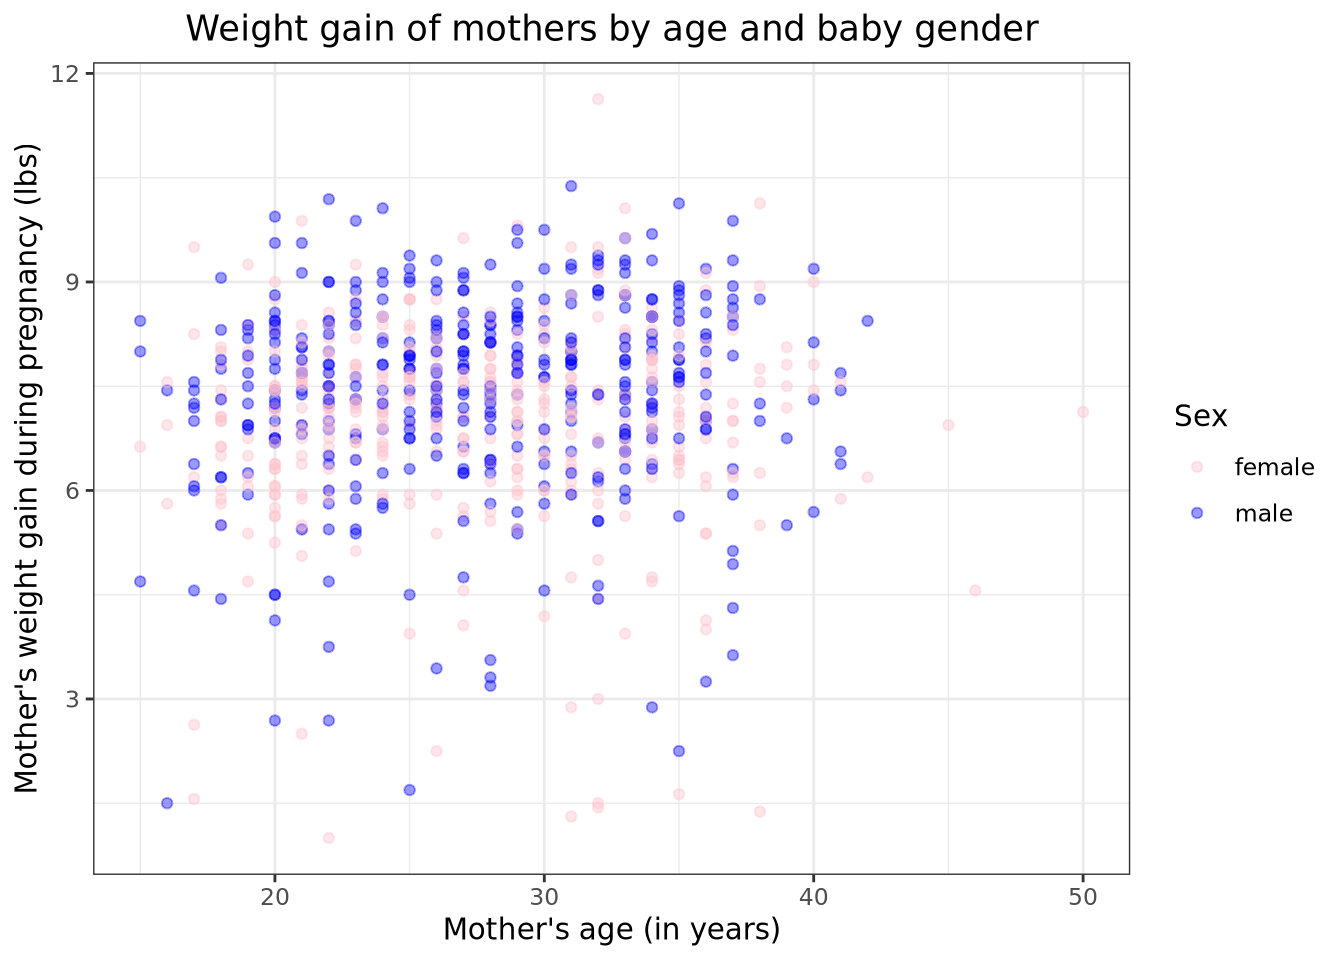
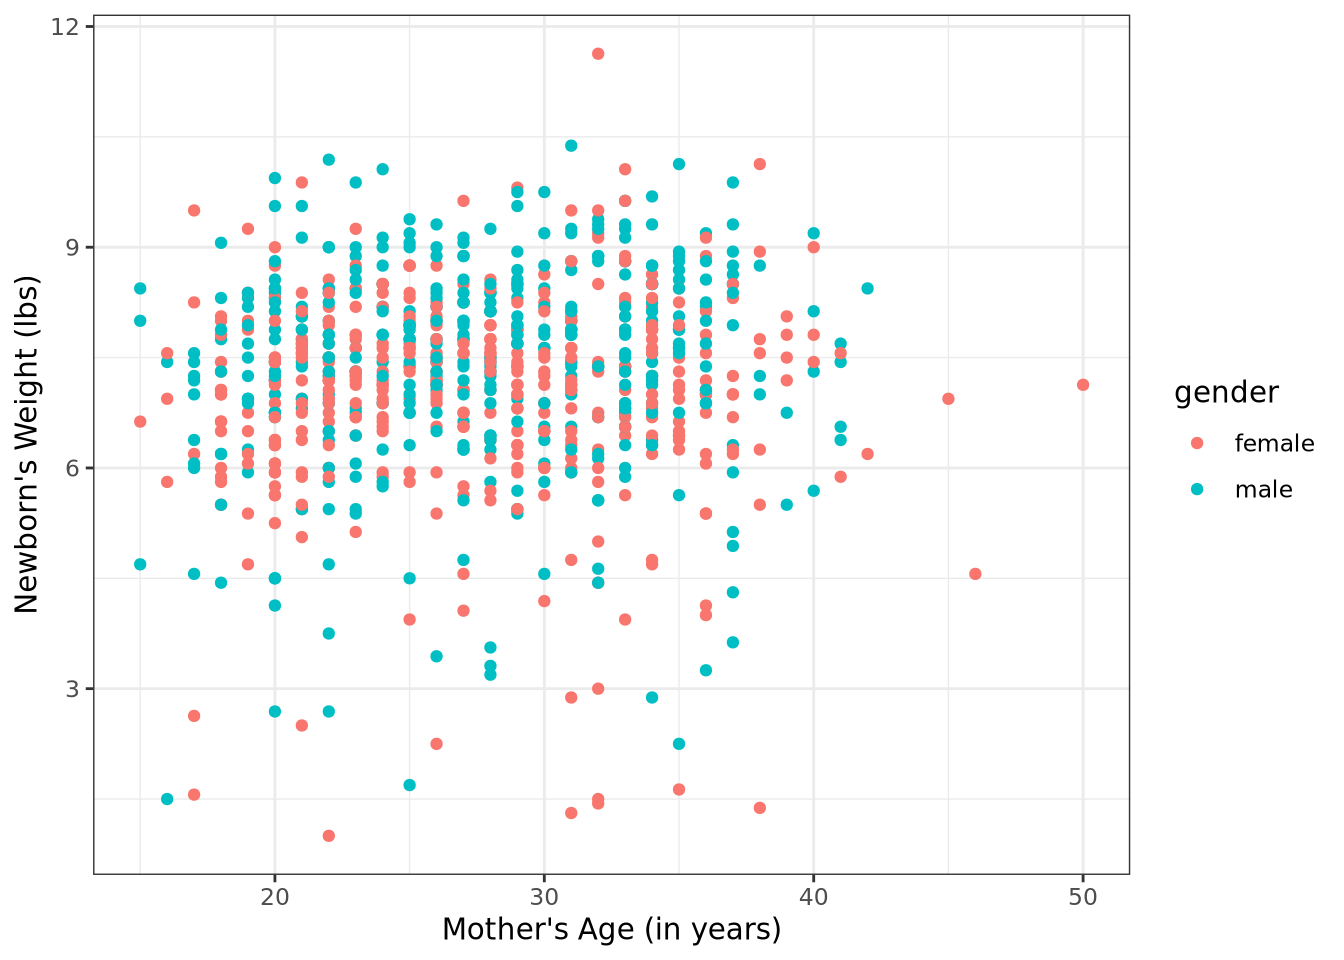
Created a graph and answered Question #5

diff --git a/PS02_source.html b/PS02_source.html
@@ -98,7 +98,7 @@ pre > code.sourceCode > span > a:first-child::before { text-decoration: underlin
     <div>
     <div class="quarto-title-meta-heading">Published</div>
     <div class="quarto-title-meta-contents">
-      <p class="date">Last modified on August 31, 2023 09:54:26 Eastern Daylight Time</p>
+      <p class="date">Last modified on August 31, 2023 10:05:17 Eastern Daylight Time</p>
     </div>
   </div>
   
@@ -274,7 +274,7 @@ Problem 1 Answers
 <div id="callout-7" class="callout-7-contents callout-collapse collapse show">
 <div class="callout-body-container callout-body">
 <ul>
-<li>“R” is considering the variable “habit” to be a character variable, or <chr>. “R” considers “visits” to be a number with decimals variable, or <dbl></dbl></chr></li>
+<li>“R” is considering the variable “habit” to be a character variable, or <code>&lt;chr&gt;</code>. “R” considers “visits” to be a number with decimals variable, or <code>&lt;dbl&gt;</code></li>
 </ul>
 </div>
 </div>
@@ -397,7 +397,7 @@ Problem 2 Answers
 <div id="callout-12" class="callout-12-contents callout-collapse collapse show">
 <div class="callout-body-container callout-body">
 <ul>
-<li>There is a positive relationship between “weight” and “weeks”. This can be seen by looking at the coordinates between the x and y axis. The graph shows a positive correlation and shows that as the length of the pregnancy progresses, the birth weight of the baby increases as well.</li>
+<li>There is a positive relationship between <code>weight</code> and <code>weeks</code>. This can be seen by looking at the coordinates between the x and y axis. The graph shows a positive correlation and shows that as the length of the pregnancy progresses, the birth weight of the baby increases as well.</li>
 </ul>
 </div>
 </div>
@@ -481,9 +481,9 @@ Problem 4 Answers
 </div>
 <div id="callout-16" class="callout-16-contents callout-collapse collapse show">
 <div class="callout-body-container callout-body">
-<p><strong>A.</strong> Adding the argument “color = premie” added a premie key to the side of the graph which demonstrates that the coral colored coordinates represent full-term births and the blue colored coordinates represent premie births. This also added the colors to the graph’s coordinates.</p>
+<p><strong>A.</strong> Adding the argument <code>color = premie</code> added a <code>premie</code> key to the side of the graph which demonstrates that the coral colored coordinates represent full-term births and the blue colored coordinates represent <code>premie</code> births. This also added the colors to the graph’s coordinates.</p>
 <p><strong>B.</strong> There are now four variables displayed on the plot: weeks of pregnancy, maternal weight gain, and whether the birth was full-term or premature.</p>
-<p><strong>C.</strong> The cutoff for premie babies occurs at around the 36-37 week time frame. After 37 weeks, the birth is considered full-term.</p>
+<p><strong>C.</strong> The cutoff for <code>premie</code> babies occurs at around the 36-37 week time frame. After 37 weeks, the birth is considered full-term.</p>
 <div class="cell" data-layout-align="center">
 <div class="sourceCode cell-code" id="cb9"><pre class="sourceCode r code-with-copy"><code class="sourceCode r"><span id="cb9-1"><a href="#cb9-1" aria-hidden="true" tabindex="-1"></a>nc <span class="sc">%&gt;%</span> </span>
 <span id="cb9-2"><a href="#cb9-2" aria-hidden="true" tabindex="-1"></a>  <span class="fu">group_by</span>(premie) <span class="sc">%&gt;%</span> </span>
@@ -525,10 +525,20 @@ Problem 5 Answers
 <div id="callout-18" class="callout-18-contents callout-collapse collapse show">
 <div class="callout-body-container callout-body">
 <div class="cell" data-layout-align="center">
-<div class="sourceCode cell-code" id="cb11"><pre class="sourceCode r code-with-copy"><code class="sourceCode r"><span id="cb11-1"><a href="#cb11-1" aria-hidden="true" tabindex="-1"></a><span class="co"># Type your code and comments inside the code chunk</span></span></code><button title="Copy to Clipboard" class="code-copy-button"><i class="bi"></i></button></pre></div>
+<div class="sourceCode cell-code" id="cb11"><pre class="sourceCode r code-with-copy"><code class="sourceCode r"><span id="cb11-1"><a href="#cb11-1" aria-hidden="true" tabindex="-1"></a><span class="fu">ggplot</span>(<span class="at">data =</span> nc, <span class="fu">aes</span>(<span class="at">x =</span> mage, <span class="at">y =</span> weight, <span class="at">color =</span> gender))<span class="sc">+</span> </span>
+<span id="cb11-2"><a href="#cb11-2" aria-hidden="true" tabindex="-1"></a>  <span class="fu">geom_point</span>() <span class="sc">+</span> </span>
+<span id="cb11-3"><a href="#cb11-3" aria-hidden="true" tabindex="-1"></a>  <span class="fu">labs</span>(<span class="at">x =</span> <span class="st">"Mother's Age (in years)"</span>, <span class="at">y =</span> <span class="st">"Newborn's Weight (lbs)"</span>) <span class="sc">+</span> </span>
+<span id="cb11-4"><a href="#cb11-4" aria-hidden="true" tabindex="-1"></a>  <span class="fu">theme_bw</span>()</span></code><button title="Copy to Clipboard" class="code-copy-button"><i class="bi"></i></button></pre></div>
+<div class="cell-output-display">
+<div class="quarto-figure quarto-figure-center">
+<figure class="figure">
+<p><img src="PS02_source_files/figure-html/unnamed-chunk-12-1.png" class="img-fluid figure-img" width="672"></p>
+</figure>
+</div>
+</div>
 </div>
 <ul>
-<li>Delete this and put your text answer here.</li>
+<li>There is very little correlation between the mother’s age and the newborn’s weight, however there is a slight correlation demonstrating that as the mother’s age increases, so does the newborn’s weight.</li>
 </ul>
 </div>
 </div>
